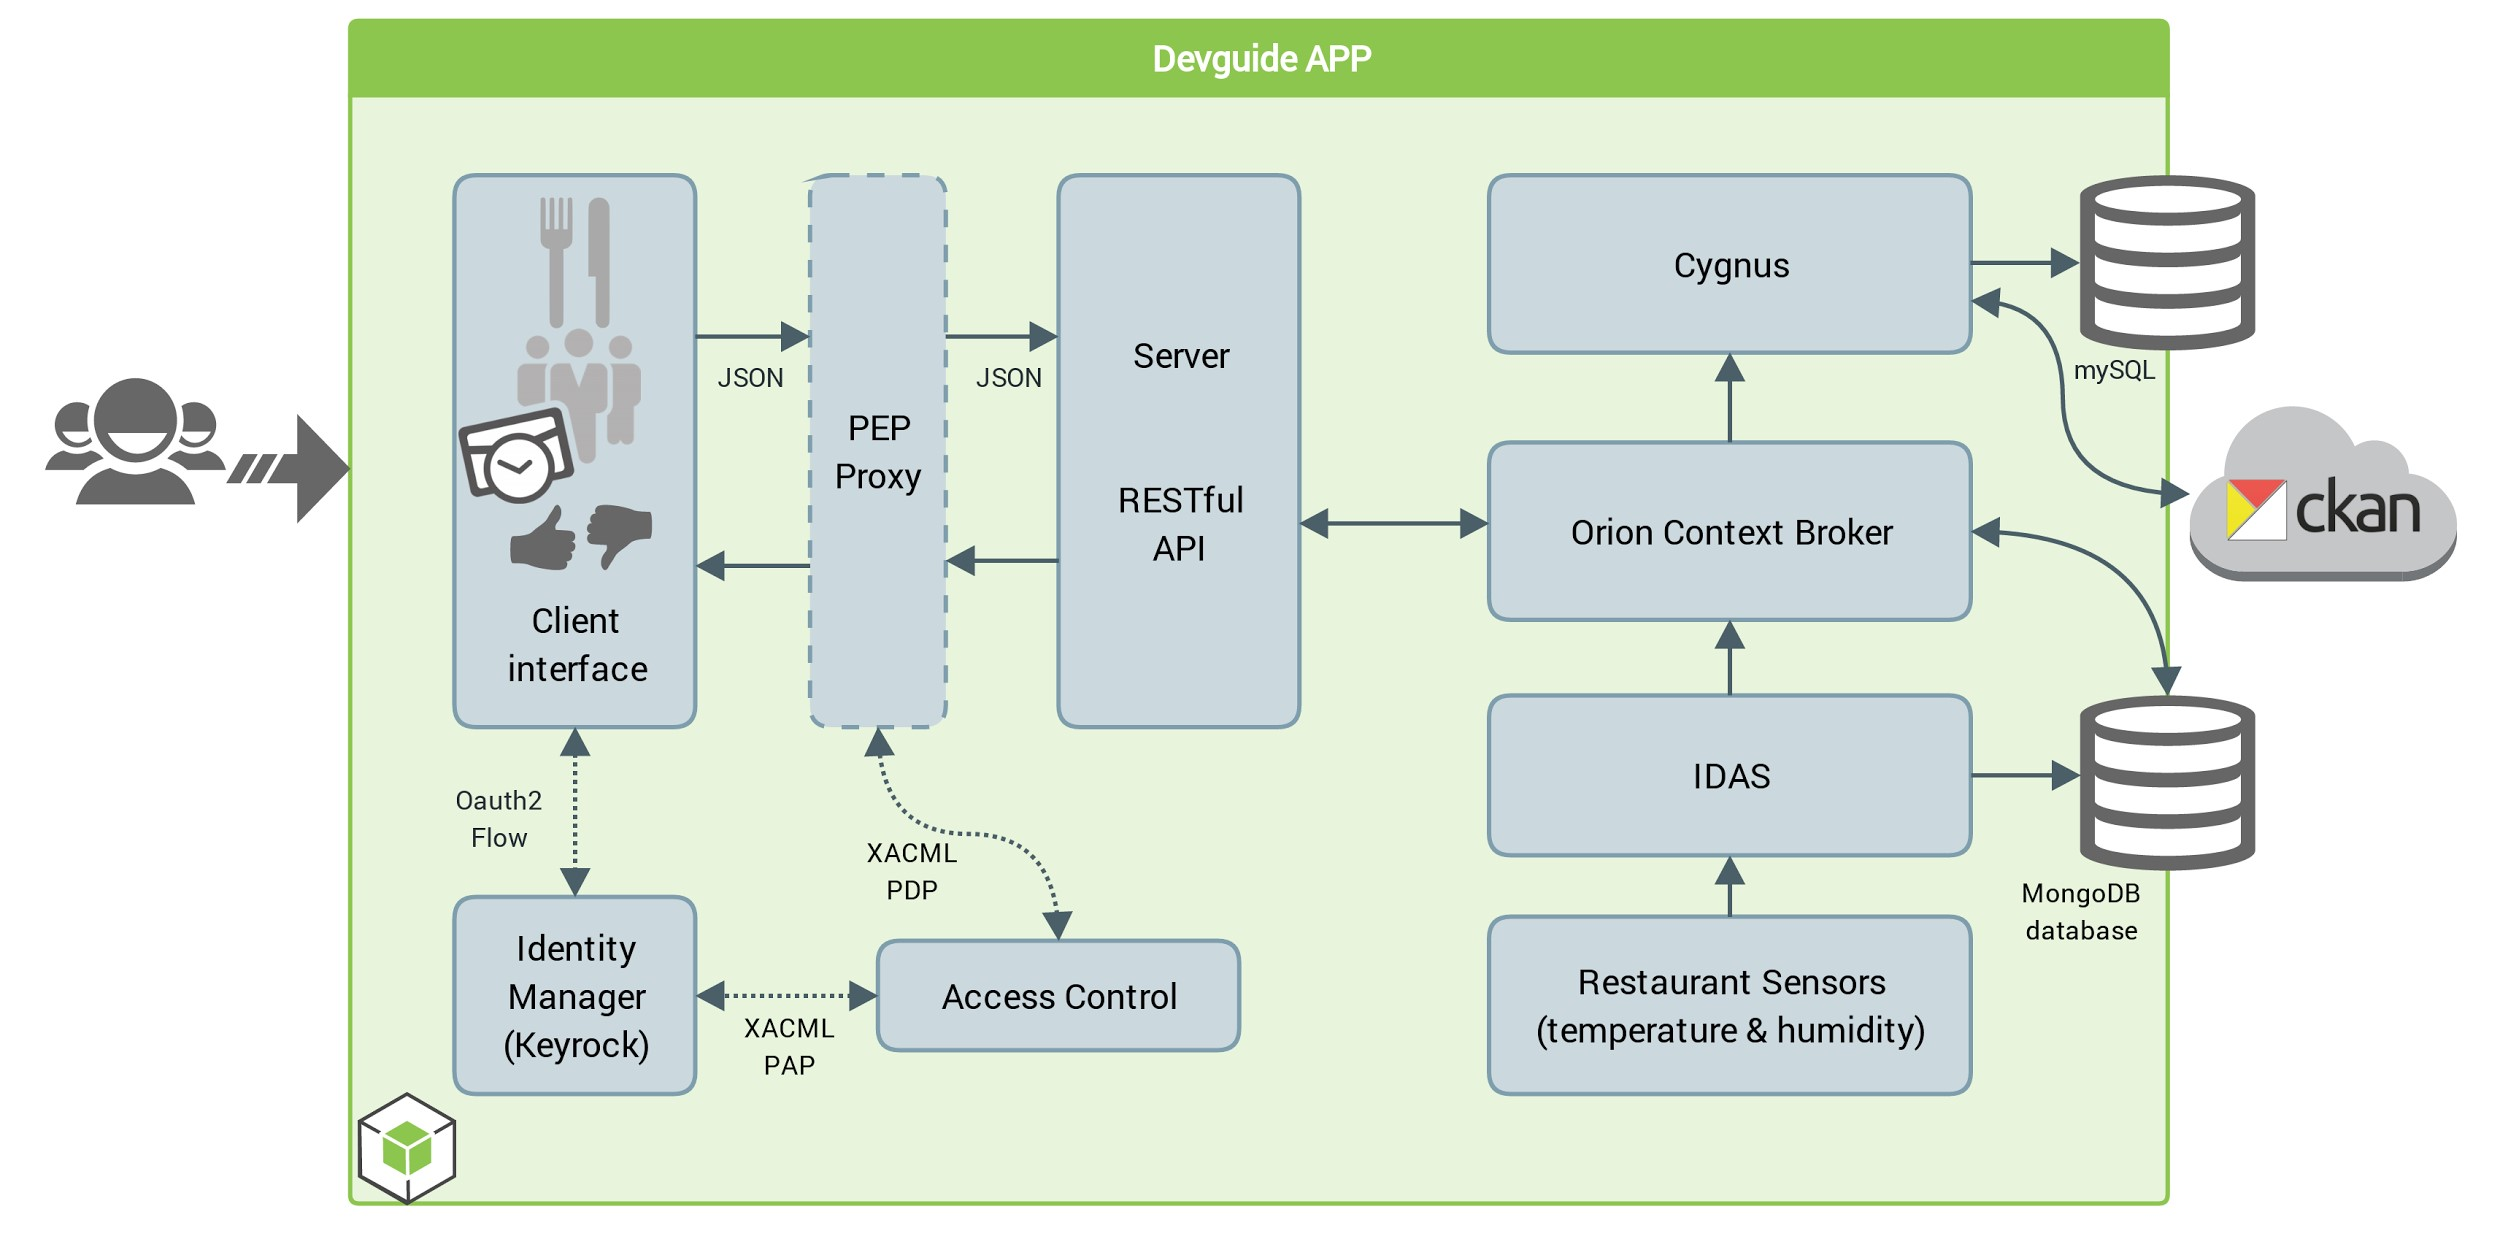
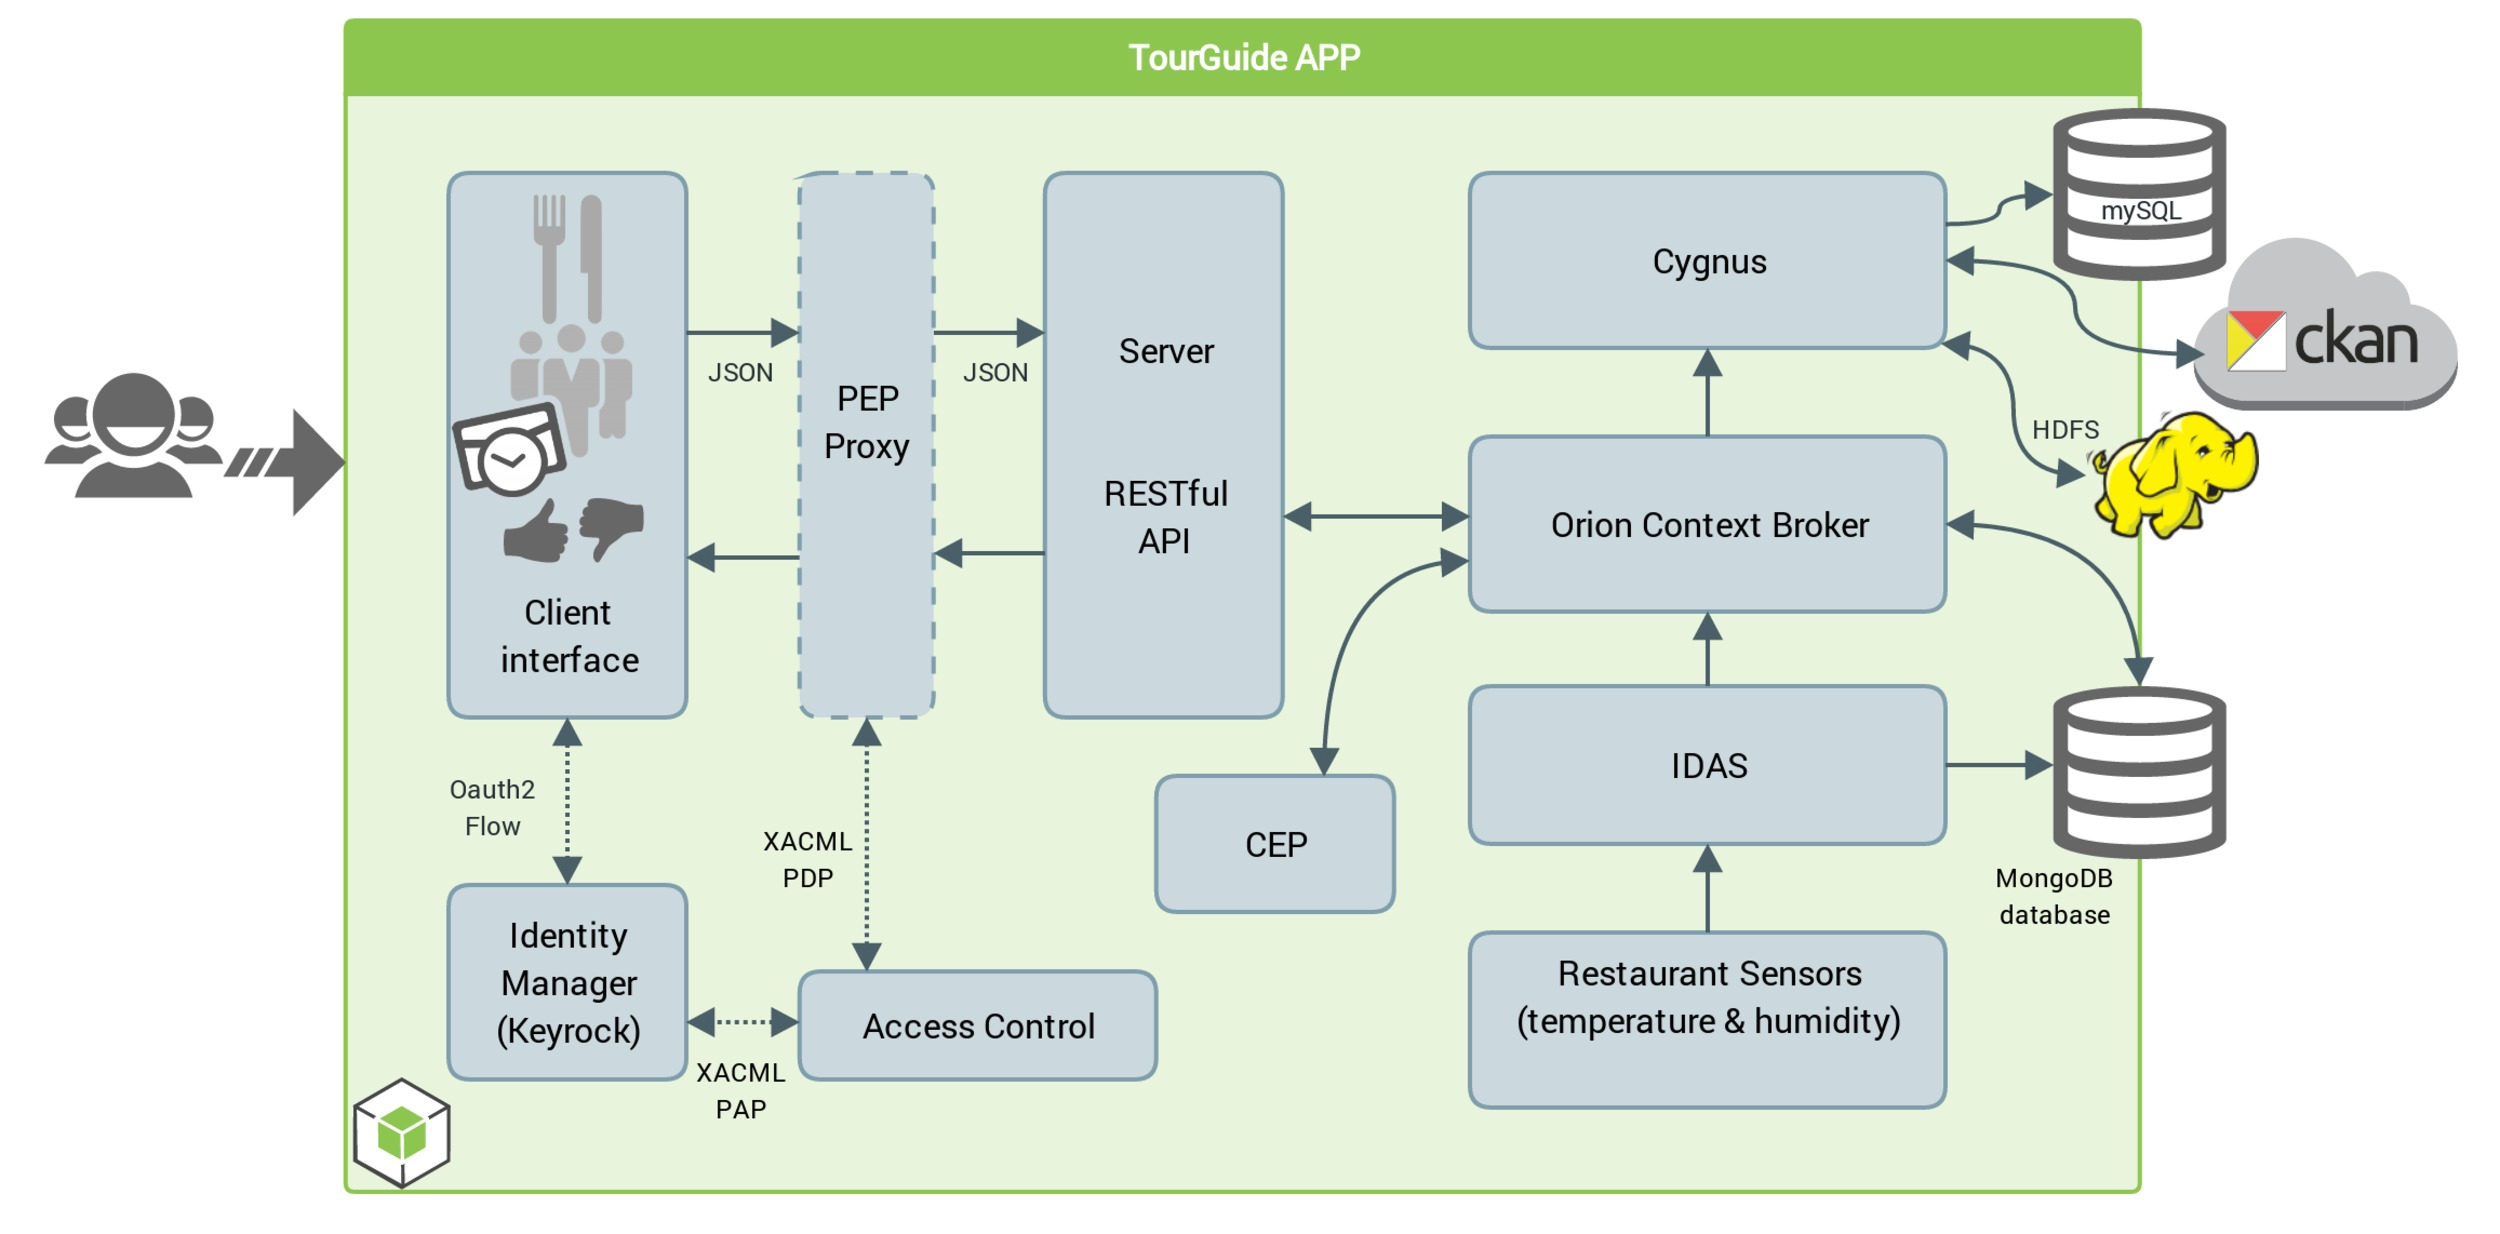
Add CEP-Proton integration in images and documentation

diff --git a/doc/fiware-tour-guide-application-a-tutorial-on-how-to-integrate-the-main-fiware-ges/fiware-tour-guide-application-a-tutorial-on-how-to-integrate-the-main-fiware-ges.md b/doc/fiware-tour-guide-application-a-tutorial-on-how-to-integrate-the-main-fiware-ges/fiware-tour-guide-application-a-tutorial-on-how-to-integrate-the-main-fiware-ges.md
@@ -63,6 +63,11 @@ application, which integrates a number of GEs:
     backend (MySQL or Hadoop) or as open data (CKAN). Cygnus is
     connected to Orion Context Broker through the
     subscription/notification interface.
+-   [Complex Event Processing (CEP) - Proactive Technology
+    Online](http://catalogue.fiware.org/enablers/complex-event-processing-cep-proactive-technology-online)
+    analyses event data in real-time, generates immediate insight and enables instant response to
+    changing conditions like higher or lower temperature.
+
 
 **Security GEs**:
 
@@ -94,7 +99,7 @@ under his duty and restaurant customers can make and browse reviews, or
 even ask for reservations.
 
 [![IMAGEN APP TOUR
-GUIDE\_1](images/IMAGEN-APP-TOUR-GUIDE_1-1024x511.jpg)](images/IMAGEN-APP-TOUR-GUIDE_1.jpg)
+GUIDE\_1](images/IMAGEN-APP-TOUR-GUIDE_1-1024x506.jpg)](images/IMAGEN-APP-TOUR-GUIDE_1.jpg)
 
 *Figure 1: Overall Tour Guide Application Architecture*
 
@@ -117,7 +122,7 @@ has all the advantages of using isolated environments and exposing each
 generic enabler from a desired port:
 
 [![IMAGEN APP TOUR
-GUIDE\_2](images/IMAGEN-APP-TOUR-GUIDE_2-1024x643.jpg)](images/IMAGEN-APP-TOUR-GUIDE_2.jpg)
+GUIDE\_2](images/IMAGEN-APP-TOUR-GUIDE_2-1024x650.jpg)](images/IMAGEN-APP-TOUR-GUIDE_2.jpg)
 
 **EXPERIMENTING**
 
@@ -276,6 +281,18 @@ For CKAN [(demo.ckan.org)](http://demo.ckan.org):
     cygnusagent.sinks.ckan-sink-XXXX.api_key=
 
 And sensors data will be published under ‘tourguideidas’ organization.
+
+**EVENTS PROCESSING**
+
+Events generation is disabled by default. To start it, modify the docker-compose.yml file
+setting the variables:
+
+    ORION_SUBSCRIPTIONS_ENABLED=true to generate the subscriptions
+    CEP_ENABLED=true to load the configuration
+
+This will use the sensors generated by the ul20-client container, raising alerts when the
+temperature raises above or drops below a certain threshold. Find detailed information of this
+example [here](https://github.com/Fiware/tutorials.TourGuide-App/blob/master/doc/CEP.md).
 
 **XACML SECURITY POLICIES**
 
